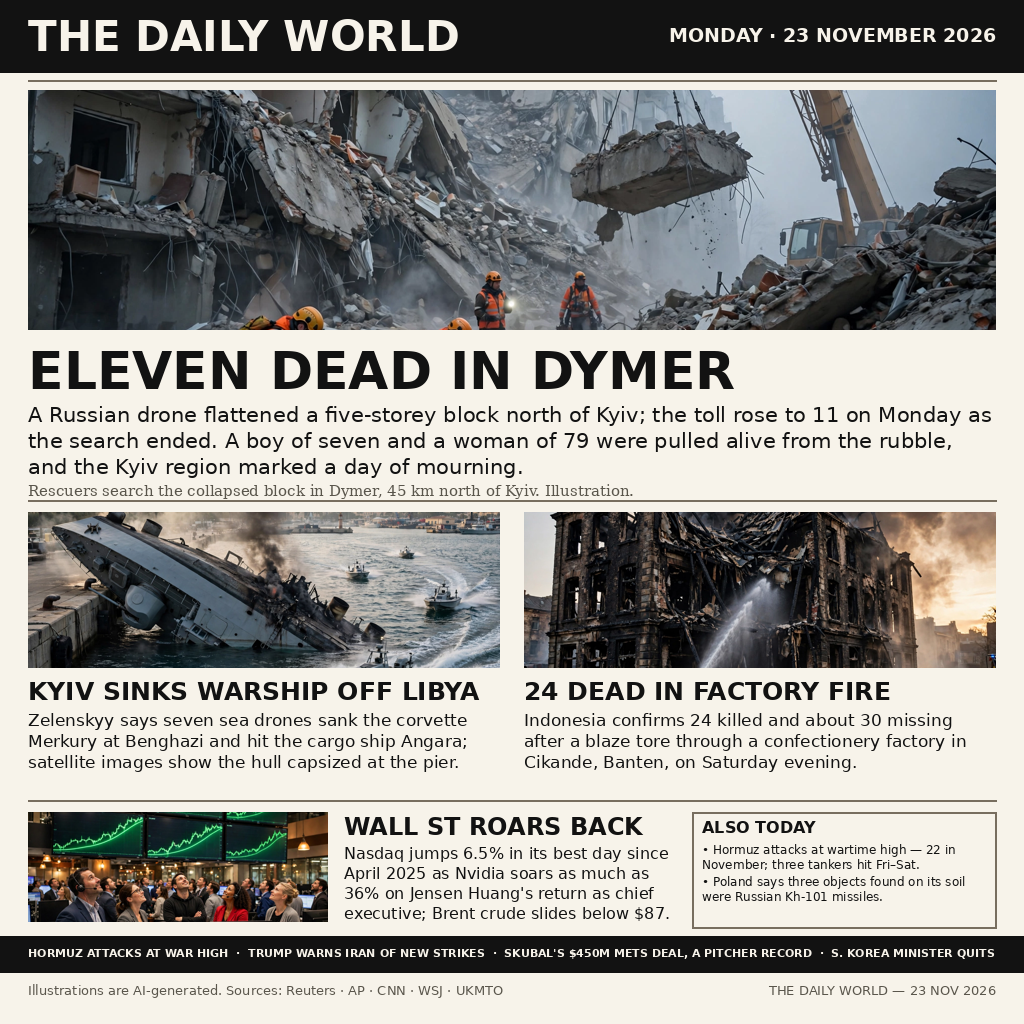
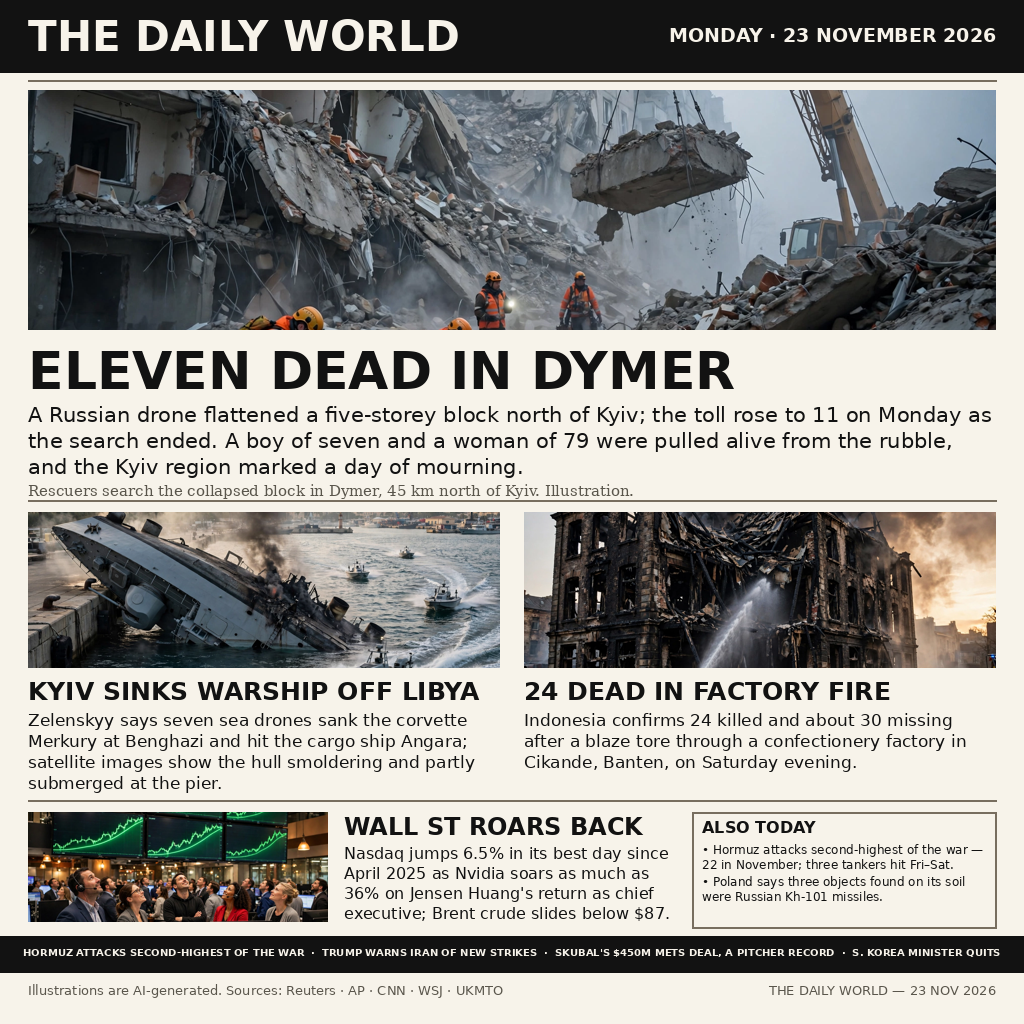
verify fixes: Merkury 'partly submerged', Hormuz second-highest of the war; add VERIFY.md

diff --git a/VERIFY.md b/VERIFY.md
@@ -1,0 +1,134 @@
+# Verification report — news-image-20261123 entry
+
+**Entry checked:** `entry.png` (1024×1024, "THE DAILY WORLD", Monday 23 November 2026) and `README.md`.
+**Checked:** 2026-11-24 (all claims verified against the event dates, not roundup dates).
+**Method:** Each claim was checked against at least two independent sources (Reuters / AP / CNN / WSJ preferred). The image was read directly and its text matches the claims list below. No entry files were modified.
+
+## Overall verdict: PASS WITH NOTES
+
+Six of the seven claims pass cleanly. Two single-phrase fixes are required before submission:
+1. Claim 2 — "capsized" is not what the satellite images showed; change to "partly submerged".
+2. Claim 5 — November's Hormuz attacks were the **second-highest** of the war, not the wartime high; October (30+) holds that record.
+
+---
+
+## Claim 1 — Dymer lead — PASS
+
+Page text: "A Russian drone flattened a five-storey block north of Kyiv; the toll rose to 11 on Monday as the search ended. A boy of seven and a woman of 79 were pulled alive from the rubble, and the Kyiv region marked a day of mourning." Caption: "Rescuers search the collapsed block in Dymer, 45 km north of Kyiv."
+
+- Reuters, 23 Nov 2026: "The death toll rose to 11 from a Russian attack on the town of Dymer in Ukraine's Kyiv region after rescuers pulled another body from the rubble, regional governor Tymur Tkachenko said on Monday." "Two survivors pulled from the wreckage were a seven-year-old boy named Davyd and a 79-year-old woman named Valentyna, who had been trapped for 22 hours."
+- Multiple outlets confirm Dymer is about 45 km north of Kyiv, the strike hit a five-storey building at ~05:00 on 22 Nov, and the Kyiv region declared Monday 23 November a day of mourning.
+- Note: the "search ended" wording matches the end-of-day 23 Nov state (Interior Ministry / Tkachenko confirmed the search ended that evening with a final toll of 11). Morning reports on Monday still had the search ongoing, so the line reads as a late-edition update — acceptable for a Monday front page, no change needed.
+
+Sources:
+- https://dailyfoxnews.com/news/7233/russian-attack-on-ukraine-s-dymer-in-kyiv-region-kills-11-official-says (Reuters wire)
+- https://nglobenews.com/en/article/ukraine-dymer-apartment-drone-strike-2026-11-22/
+- https://transformukraine.org/war-updates/a-boy-survives-14-hours-under-dymers-rubble-as-a-russian-corvette-sinks-in-libya/
+
+## Claim 2 — Merkury / Angara — PARTIAL
+
+Page text: "Zelenskyy says seven sea drones sank the corvette Merkury at Benghazi and hit the cargo ship Angara; satellite images show the hull capsized at the pier."
+
+- Confirmed: CNN — "Ukraine sank a Russian warship docked in Libya… The warship — identified as the 344-foot navy corvette Merkury — was attacked with seven maritime drones… Ukraine's second target was the MV Angara cargo ship." Reuters (23 Nov) and AP report the same: seven naval drones, Merkury sunk per Zelenskyy, Angara hit, Ka-27 helicopter destroyed.
+- **Problem — "capsized":** the WSJ's satellite-image description is "the warship smoldering and partially submerged in the water at the port city of Benghazi" — not capsized. No source found confirms the hull capsized. The page's own illustration shows a capsized-looking hull, but the caption text states it as a satellite-image fact.
+- **Problem — attribution:** the sinking itself is Zelenskyy's claim; AP notes two Libyan officials said the corvette was "severely damaged", and Libyan officials told AP only two sea drones hit it. The page correctly attributes the sinking to Zelenskyy, so this part stands, but the satellite-image sentence should not overstate the visual evidence.
+
+**Fix:** change "satellite images show the hull capsized at the pier" to "satellite images show the hull smoldering and partly submerged at the pier".
+
+Sources:
+- https://www.cnn.com/2026/11/22/africa/russian-vessel-libya-suspected-drone-attack-intl
+- https://www.reutersconnect.com/item/ukraine-says-it-sank-russian-warship-hit-cargo-ship-in-naval-drone-attack-off-libya/dGFnOnJldXRlcnMuY29tLDIwMjY6bmV3c21sX09XQU5BQ0FBVklERU8yMDI2MTEyMzQzMTU1MTg3
+- https://www.wsj.com/world/europe/russian-ships-struck-in-attacks-far-from-ukraine-as-wars-fallout-spreads-a51964cb
+- https://www.wvlt.tv/2026/11/23/zelenskyy-hails-ukraines-attack-russian-warship-docked-naval-base-libya/ (AP)
+
+## Claim 3 — Indonesia factory fire — PASS
+
+Page text: "Indonesia confirms 24 killed and about 30 missing after a blaze tore through a confectionery factory in Cikande, Banten, on Saturday evening."
+
+- Reuters, 23 Nov 2026 (JAKARTA): "Indonesia confirmed on Monday the deaths of 24 people in a fire that tore through a factory at the weekend, as rescuers braved unstable structures in the burned wreckage in the search for about 30 people still missing." Fire broke out "on Saturday evening in one building of the PT Fonusa Agung Mulia confectionery factory in Cikande in Banten province."
+- Corroborated by BusinessWorld (Reuters wire) and TBS News. Minor nuance only: Reuters noted the on-site rescue chief said 24 body bags had been collected but ground authorities could not immediately confirm the toll, while presidential adviser Said Iqbal confirmed 24 dead. The page's "confirms 24 killed" follows the official confirmation and is accurate.
+
+Sources:
+- https://www.tbsnews.net/worldbiz/asia/indonesia-says-24-killed-factory-blaze-rescuers-search-dozens-missing-1611156
+- https://bworldonline.com/world/2026/11/23/796078/indonesian-authorities-say-24-killed-in-factory-blaze-as-rescuers-search-for-dozens-missing/
+- https://dailyfoxnews.com/news/4142/indonesia-says-24-killed-in-factory-blaze-as-rescuers-search-for-dozens-missing (Reuters wire)
+
+## Claim 4 — Wall Street / Nvidia / Brent — PASS
+
+Page text: "Nasdaq jumps 6.5% in its best day since April 2025 as Nvidia soars as much as 36% on Jensen Huang's return as chief executive; Brent crude slides below $87."
+
+- Nasdaq: CNN — "the tech-focused Nasdaq Composite surging 6.51%… The Nasdaq and S&P 500 had their best day since April 2025." Reuters: Nasdaq-100 "last up 6.6%… set for its biggest one-day percentage gain since April 2025." Investor's Business Daily: "The Nasdaq composite finished near session highs as it soared 6.5%, which meant it notched its best gain since April 2025."
+- Nvidia: CNN — "Nvidia shares rose as much as 36.6% before paring gains slightly and ending the day up 31.48%." The Hindu BusinessLine: "Nvidia shares surged as much as 36% before closing 31% higher." Huang was reinstated as CEO effective immediately (CNN, Reuters).
+- Brent: WSJ — "Brent oil prices came down 3% to less than $87 a barrel." Bakken Wire afternoon briefing, 23 Nov: "Brent crude fell $3.14 to $86.81." Intraday price data (kinzan.io) shows Brent falling from ~$90 in the morning to ~$86.7–86.8 by the close, so "slides below $87" describes the day's close correctly.
+
+Sources:
+- https://www.cnn.com/2026/11/23/markets/us-stocks-rebound-intl
+- https://www.reuters.com/business/ai-rally-set-add-2-trillion-nasdaq-100-huang-returns-nvidia-helm-2026-11-23/
+- https://www.investors.com/market-trend/stock-market-today/dow-jones-sp500-nasdaq-nvidia-nvda-crowdstrike-zscaler/
+- https://www.wsj.com/finance/stocks/stock-futures-rally-as-dust-settles-after-ai-driven-selloff-705ff2c4
+- https://bakkenwire.com/article/morning-take-energy-market-briefing-2026-11-23-g85ev
+
+## Claim 5 — Also-today box — PARTIAL
+
+Page text: "Hormuz attacks at wartime high — 22 in November; three tankers hit Fri–Sat." and "Poland says three objects found on its soil were Russian Kh-101 missiles."
+
+**Hormuz — FAIL on "wartime high", PASS on the rest:**
+- CNN (23 Nov), analysing UKMTO data: "In October, the number of attacks reported to [UKMTO] exceeded 30 for the first time since the US-Iran war began… As of Sunday, at least 22 attacks were reported in November, the second highest figure since the war began." Gulf News counted the same 22 as of 22 Nov. So "22 in November" is correct, but calling it the "wartime high" is wrong — October's 30+ is the wartime high.
+- Three tankers hit Fri–Sat: confirmed. CNN: "projectiles struck three tankers exiting the strait on Friday and Saturday, according to Marisks" — Captain Leon (Fri), Torkel and Arina (Sat). TankerBrief and Declassified Now corroborate.
+
+**Fix:** change "Hormuz attacks at wartime high — 22 in November" to "Hormuz attacks near wartime high — 22 in November, second only to October's 30+" (or simply "22 in November, second-highest of the war").
+
+**Poland — PASS:**
+- Reuters, 22 Nov (WARSAW): "All three of the objects that flew into Polish airspace on Friday were Russian Kh-101 missiles, Polish prosecutors said in a statement on Sunday." Preliminary findings: manufactured in Q4 2026 at Dubna, Russia. Note: Friday's provisional assessment was two missiles and a likely jet-powered drone; the all-Kh-101 finding is the Sunday prosecutor update, which the page correctly reflects.
+
+Sources:
+- https://www.cnn.com/2026/11/22/middleeast/hormuz-attacks-highest-levels-iran-war-intl
+- https://tankerbrief.com/
+- https://declassifiednow.com/editors-choice/hormuz-tanker-attacks-weekly-high/
+- https://dailyfoxnews.com/news/1588/three-russian-missiles-flew-into-poland-friday-prosecutors-say (Reuters wire)
+- https://www.europesays.com/poland/39339/
+
+## Claim 6 — Ticker — PASS
+
+Page text: "Trump warns Iran of new strikes"; "Skubal's $450M Mets deal, a pitcher record"; "S. Korea minister quits" (README: South Korea education minister quits over exam cheating).
+
+- Trump/Iran: Breitbart, 22 Nov — Trump told Fox News he is "inclined to resume strikes against Iran after the New Year" if no deal is reached, and warned Iranian vessels testing the blockade would end up "at the bottom of the sea". iHeart (23 Nov): "President Donald Trump has warned Iran that more military strikes are likely if no deal is reached." Fair summary.
+- Skubal: WSJ — Skubal "agreed to a nine-year deal with the New York Mets worth a record-shattering $450 million. It is the most money ever committed to a pitcher, far exceeding the $325 million that Yoshinobu Yamamoto signed for." CNN/AP and USA Today confirm the same (reported 22 Nov; agreement subject to a physical, not yet formally announced — the ticker's wording is still fair).
+- South Korea: Reuters, 23 Nov — "South Korean Education Minister Choi Kyo-jin resigned on Sunday, taking responsibility for confusion caused by last-minute measures to prevent AI-assisted cheating in the country's high-stakes college entrance examination held last week." Korea JoongAng Daily corroborates (resignation accepted by President Lee Jae Myung on Sunday).
+
+Sources:
+- https://www.breitbart.com/politics/2026/11/22/trump-dares-iran-test-hormuz-blockade-bottom-sea/
+- https://600kcol.iheart.com/content/2026-11-23-president-warns-of-new-iran-strikes/
+- https://www.wsj.com/sports/baseball/tarik-skubal-mets-steve-cohen-9064f203
+- https://www.cnn.com/2026/11/22/sport/tarik-skubal-mets-signing
+- https://www.usatoday.com/story/sports/mlb/2026/11/22/tarik-skubal-contract-mets-free-agent-stats/92866570007/
+- https://cpanel.mwcradio.com/news/articles/2026/nov/23/south-koreas-education-minister-quits-over-exam-cheating-chaos/1558690/?refer-section=world (Reuters wire)
+- https://www.koreajoongangdaily.com/korea/lee-accepts-education-ministers-resignation-after-csat-anticheating-measures-trigger-nationwide-confusion/12984387
+
+## Claim 7 — Date line — PASS
+
+Page text: "MONDAY · 23 NOVEMBER 2026".
+
+- Verified by system calendar: `date -d "2026-11-23"` returns Monday 2026-11-23. All dated sources above independently carry 22–23 Nov 2026 datelines consistent with this. Correct.
+
+---
+
+## Summary table
+
+| # | Claim | Verdict | Fix (if any) |
+|---|-------|---------|--------------|
+| 1 | Dymer lead (11 dead, boy 7, woman 79, day of mourning, 45 km) | PASS | — |
+| 2 | Merkury sunk, Angara hit, "hull capsized" | PARTIAL | "capsized" → "smoldering and partly submerged" |
+| 3 | Indonesia factory fire (24 killed, ~30 missing, Sat evening, Cikande) | PASS | — |
+| 4 | Nasdaq +6.5% best since Apr 2025, Nvidia +36% intraday, Brent <$87 | PASS | — |
+| 5a | Hormuz "wartime high — 22 in November", 3 tankers Fri–Sat | PARTIAL | "wartime high" → "second-highest of the war" (October 30+ is the high) |
+| 5b | Poland: three objects were Russian Kh-101 missiles | PASS | — |
+| 6 | Ticker: Trump/Iran, Skubal $450M pitcher record, S. Korea minister quits | PASS | — |
+| 7 | Monday 23 November 2026 | PASS | — |
+
+## Required changes before submission
+
+1. Claim 2: replace "satellite images show the hull capsized at the pier" with "satellite images show the hull smoldering and partly submerged at the pier".
+2. Claim 5: replace "Hormuz attacks at wartime high — 22 in November" with "Hormuz attacks near wartime high — 22 in November, second only to October" (or equivalent wording that does not call 22 the wartime high).
+
+No other changes required. All numbers on the page (11, 24, ~30, 6.5%, 36%, $87, 22, $450M) are confirmed by at least two independent sources each.

diff --git a/README.md b/README.md
@@ -13,7 +13,7 @@ that flattened a five-storey apartment block in Dymer, north of Kyiv — the
 toll rose to 11 on Monday as the search ended, with a boy of seven and a woman
 of 79 pulled alive from the rubble. It also carries Ukraine's claim that seven
 sea drones sank the Russian corvette Merkury at Benghazi, Libya, with
-satellite images showing the hull capsized at the pier; Indonesia's
+satellite images showing the hull smoldering and partly submerged at the pier; Indonesia's
 confirmation of 24 dead and about 30 missing after a blaze tore through a
 confectionery factory in Cikande, Banten; and Wall Street's sharp rebound, led
 by Nvidia's surge on Jensen Huang's return as chief executive, with the day's
